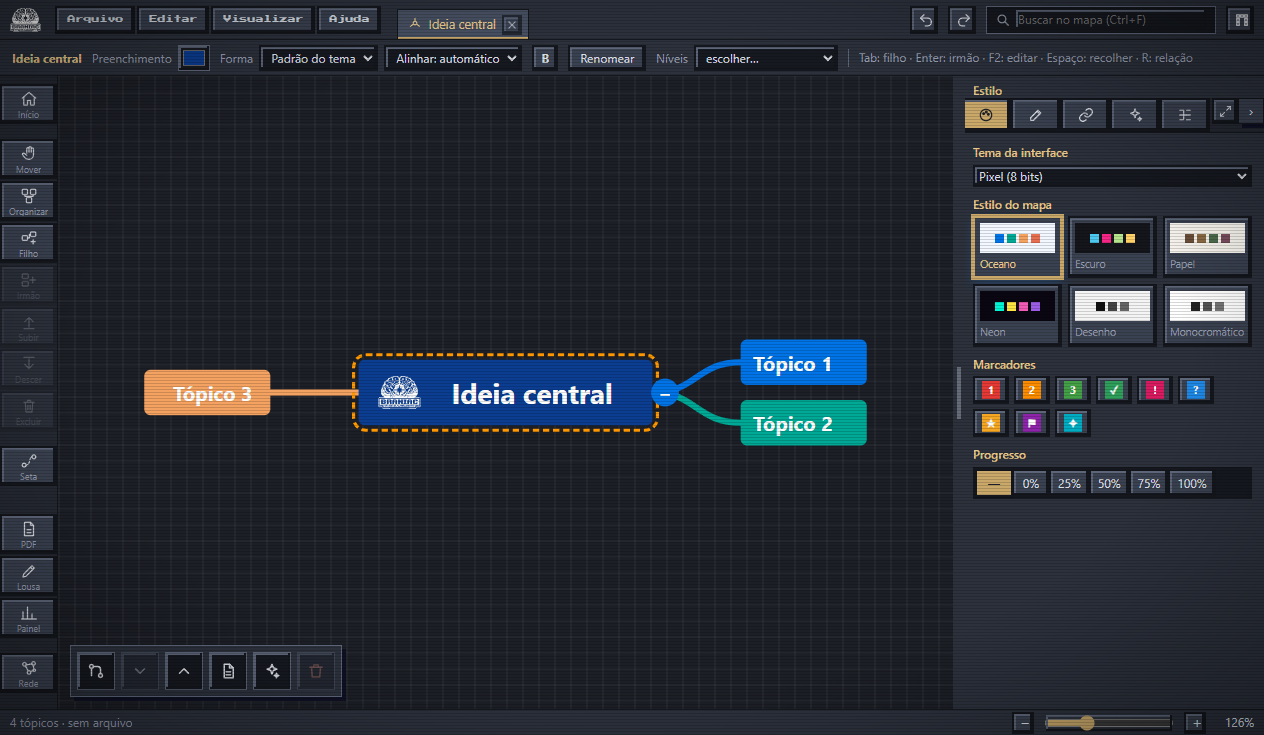
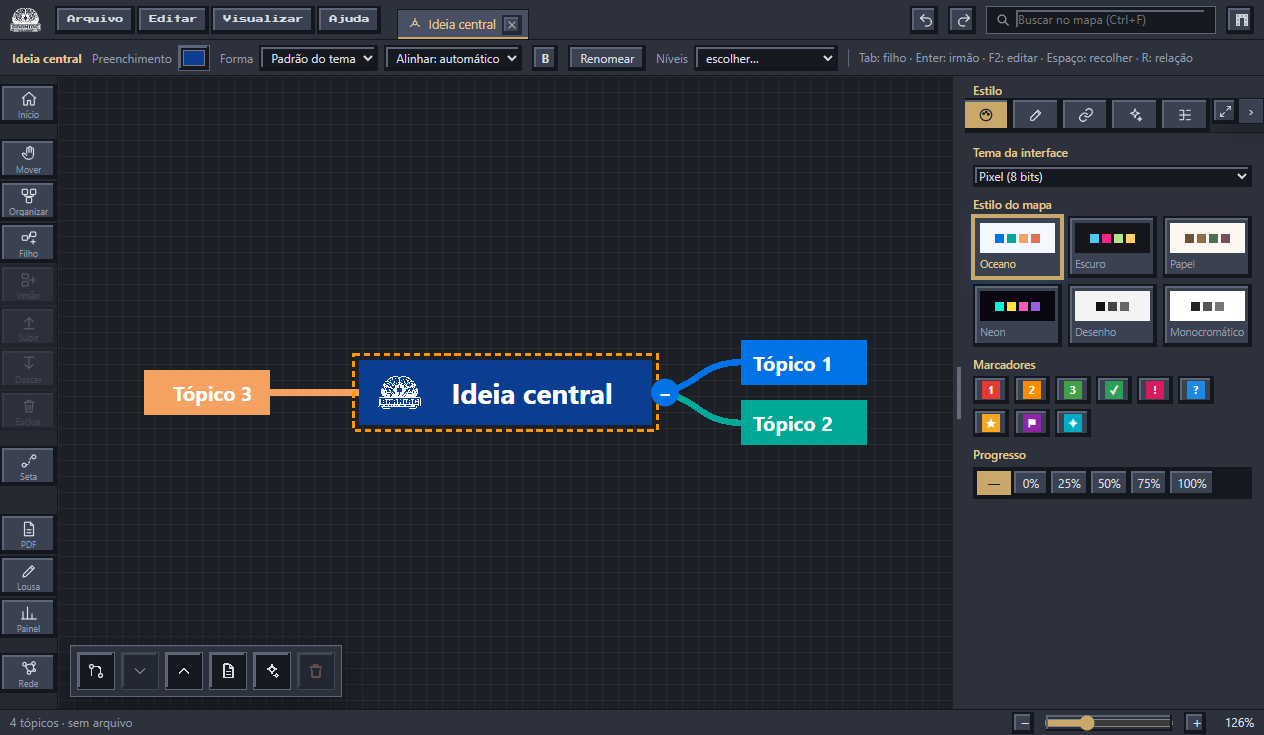
Release 0.7.5: tema Pixel com mapa em canvas escuro
- Canvas do mapa escuro no tema Pixel, com grade discreta.
- Formas dos tópicos com cantos retos e bordas serrilhadas (shape-rendering).
- Contraste ajustado no canvas escuro (core/svg.js, opção canvas):
  texto sem caixa >= 4,5:1; ramos e contornos >= 3:1.
  Temas de mapa e exportação não mudam quando a opção não é usada.
- Testes: test/canvas-contrast.test.js (18 casos, todos os temas).
- Evidências: docs/evidencias/tema-pixel/2-pixel.png e 5-mapa-papel-canvas-escuro.png.
- Versão 0.7.5 (Android: versionName 0.7.5, versionCode 27).

diff --git a/tablet/www/tablet-bundle.js b/tablet/www/tablet-bundle.js
@@ -4132,7 +4132,7 @@ Pergunta do aluno: ${q || "Explique o t\xF3pico de forma resumida, do jeito que 
     "package.json"(exports, module) {
       module.exports = {
         name: "braniac-tablet",
-        version: "0.7.4",
+        version: "0.7.5",
         private: true,
         description: "Casca Android (Capacitor) do BRANIAC: empacota a mesma interface do desktop para o tablet.",
         scripts: {
@@ -10215,6 +10215,27 @@ ${rewriteLinks(node.notes || "", () => " ")}`.replace(/\[\[[^\]]*\]\]/g, " "));
       var { logoSize, logoVariant, logoMarkup } = require_logo();
       var { escapeHtml: esc } = require_text();
       var REL_COLOR = "#e5484d";
+      function luminance(hex) {
+        const c = [1, 3, 5].map((i) => parseInt(hex.slice(i, i + 2), 16) / 255).map((v) => v <= 0.03928 ? v / 12.92 : ((v + 0.055) / 1.055) ** 2.4);
+        return 0.2126 * c[0] + 0.7152 * c[1] + 0.0722 * c[2];
+      }
+      function contrast(a, b) {
+        const x = luminance(a), y = luminance(b);
+        return (Math.max(x, y) + 0.05) / (Math.min(x, y) + 0.05);
+      }
+      function lighten(hex, t) {
+        const ch = (i) => parseInt(hex.slice(i, i + 2), 16);
+        const mix = (v) => Math.round(v + (255 - v) * t).toString(16).padStart(2, "0");
+        return `#${mix(ch(1))}${mix(ch(3))}${mix(ch(5))}`;
+      }
+      function onDarkCanvas(color, canvas, min) {
+        if (!/^#[0-9a-fA-F]{6}$/.test(color || "") || contrast(color, canvas) >= min) return color;
+        for (let t = 0.05; t <= 1; t += 0.05) {
+          const c = lighten(color, t);
+          if (contrast(c, canvas) >= min) return c;
+        }
+        return "#ffffff";
+      }
       function edgePath(e, curve) {
         const { a, b, dir } = edgePoints(e);
         if (curve === "elbow") {
@@ -10230,33 +10251,37 @@ ${rewriteLinks(node.notes || "", () => " ")}`.replace(/\[\[[^\]]*\]\]/g, " "));
         return b.side < 0 ? "right" : "left";
       }
       var SKETCH_DEFS = '<defs><filter id="mc-sketch" x="-5%" y="-5%" width="110%" height="110%"><feTurbulence type="fractalNoise" baseFrequency="0.035" numOctaves="2" seed="7" result="n"/><feDisplacementMap in="SourceGraphic" in2="n" scale="3.5" xChannelSelector="R" yChannelSelector="G"/></filter></defs>';
-      function renderGroup(L, { selectedId, selectedIds, selectedRel, interactive, hits, logo } = {}) {
+      function renderGroup(L, { selectedId, selectedIds, selectedRel, interactive, hits, logo, canvas } = {}) {
         const { theme } = L;
         const out = [];
         if (theme.sketch) out.push(SKETCH_DEFS);
         for (const e of L.edges) {
           const w = e.to.style.edgeWidth || theme.line.width[Math.min(e.to.level - 1, theme.line.width.length - 1)];
-          out.push(`<path d="${edgePath(e, theme.line.curve)}" fill="none" stroke="${e.to.style.edge || e.to.branch}" stroke-width="${w}" stroke-linecap="round"/>`);
+          out.push(`<path d="${edgePath(e, theme.line.curve)}" fill="none" stroke="${canvas ? onDarkCanvas(e.to.style.edge || e.to.branch, canvas, 3) : e.to.style.edge || e.to.branch}" stroke-width="${w}" stroke-linecap="round"/>`);
         }
         for (const { rel, geo } of L.relations) {
-          const col = /^#[0-9a-fA-F]{6}$/.test(rel.color || "") ? rel.color : REL_COLOR, sel = selectedRel === rel.id;
+          const col0 = /^#[0-9a-fA-F]{6}$/.test(rel.color || "") ? rel.color : REL_COLOR;
+          const col = canvas ? onDarkCanvas(col0, canvas, 3) : col0, sel = selectedRel === rel.id;
           const d = `M${geo.a.x},${geo.a.y} Q${geo.c.x},${geo.c.y} ${geo.b.x},${geo.b.y}`;
           const ar = geo.arrow.map((p) => `${p.x},${p.y}`).join(" ");
-          out.push(`<g${interactive ? ` data-rel="${esc(rel.id)}" class="rel"` : ""}>` + (interactive ? `<path d="${d}" fill="none" stroke="transparent" stroke-width="14"/>` : "") + `<path d="${d}" fill="none" stroke="${col}" stroke-width="${sel ? 3.5 : 2}" stroke-dasharray="7 5" stroke-linecap="round"/><polygon points="${ar}" fill="${col}"/>` + (rel.label ? `<text x="${geo.label.x}" y="${geo.label.y - 6}" text-anchor="middle" font-size="12" font-style="italic" fill="${col}" stroke="${theme.background}" stroke-width="4" paint-order="stroke">${esc(rel.label)}</text>` : "") + "</g>");
+          out.push(`<g${interactive ? ` data-rel="${esc(rel.id)}" class="rel"` : ""}>` + (interactive ? `<path d="${d}" fill="none" stroke="transparent" stroke-width="14"/>` : "") + `<path d="${d}" fill="none" stroke="${col}" stroke-width="${sel ? 3.5 : 2}" stroke-dasharray="7 5" stroke-linecap="round"/><polygon points="${ar}" fill="${col}"/>` + (rel.label ? `<text x="${geo.label.x}" y="${geo.label.y - 6}" text-anchor="middle" font-size="12" font-style="italic" fill="${col}" stroke="${canvas || theme.background}" stroke-width="4" paint-order="stroke">${esc(rel.label)}</text>` : "") + "</g>");
         }
         for (const b of L.boxes.values()) {
           const s = b.style, n = b.node;
+          const onCanvasText = canvas && (s.shape === "underline" || s.shape === "none" && (!s.fill || s.fill === "none"));
+          const ink = onCanvasText ? onDarkCanvas(s.color, canvas, 4.5) : s.color;
+          const rim = canvas && !s.stroke && /^#[0-9a-fA-F]{6}$/.test(s.fill || "") && contrast(s.fill, canvas) < 3 ? ' stroke="#9aa3b5" stroke-width="1.5"' : "";
           const tx = b.x + b.markerW + (b.w - b.markerW) / 2;
           let shape = "";
           if (s.shape === "underline") {
-            shape = `<line x1="${b.x}" y1="${b.y + b.h}" x2="${b.x + b.w}" y2="${b.y + b.h}" stroke="${s.stroke || b.branch}" stroke-width="${s.strokeWidth || 2}"/>`;
+            shape = `<line x1="${b.x}" y1="${b.y + b.h}" x2="${b.x + b.w}" y2="${b.y + b.h}" stroke="${canvas ? onDarkCanvas(s.stroke || b.branch, canvas, 3) : s.stroke || b.branch}" stroke-width="${s.strokeWidth || 2}"/>`;
           } else if (s.shape === "none") {
             shape = s.fill && s.fill !== "none" ? `<rect x="${b.x}" y="${b.y}" width="${b.w}" height="${b.h}" fill="${s.fill}"/>` : "";
           } else if (s.shape === "ellipse") {
-            shape = `<ellipse cx="${b.x + b.w / 2}" cy="${b.y + b.h / 2}" rx="${b.w / 2}" ry="${b.h / 2}" fill="${s.fill}"${s.stroke ? ` stroke="${s.stroke}" stroke-width="${s.strokeWidth}"` : ""}/>`;
+            shape = `<ellipse cx="${b.x + b.w / 2}" cy="${b.y + b.h / 2}" rx="${b.w / 2}" ry="${b.h / 2}" fill="${s.fill}"${s.stroke ? ` stroke="${s.stroke}" stroke-width="${s.strokeWidth}"` : rim}/>`;
           } else {
             const r = s.shape === "pill" ? Math.min(b.h / 2, 8) : s.shape === "round" ? 5 : 2;
-            shape = `<rect x="${b.x}" y="${b.y}" width="${b.w}" height="${b.h}" rx="${r}" fill="${s.fill}"${s.stroke ? ` stroke="${s.stroke}" stroke-width="${s.strokeWidth}"` : ""}/>`;
+            shape = `<rect x="${b.x}" y="${b.y}" width="${b.w}" height="${b.h}" rx="${r}" fill="${s.fill}"${s.stroke ? ` stroke="${s.stroke}" stroke-width="${s.strokeWidth}"` : rim}/>`;
           }
           if (logo && b.level === 0) {
             const ls = logoSize(s.size);
@@ -10267,7 +10292,7 @@ ${rewriteLinks(node.notes || "", () => " ")}`.replace(/\[\[[^\]]*\]\]/g, " "));
           const align = textAlign(b, s);
           const txA = align === "left" ? b.x + s.padX * 0.7 + b.markerW : align === "right" ? b.x + b.w - s.padX : tx;
           const anchor = align === "left" ? "start" : align === "right" ? "end" : "middle";
-          const text = b.lines.map((l, i) => `<text x="${txA}" y="${startY + i * b.lineHeight}" text-anchor="${anchor}" dominant-baseline="central" fill="${s.color}" font-size="${s.size}"${s.font ? ` font-family="${esc(`'${s.font}', ${theme.font}`)}"` : ""} font-weight="${s.bold ? 700 : 400}"${s.italic ? ' font-style="italic"' : ""}>${esc(l)}</text>`).join("");
+          const text = b.lines.map((l, i) => `<text x="${txA}" y="${startY + i * b.lineHeight}" text-anchor="${anchor}" dominant-baseline="central" fill="${ink}" font-size="${s.size}"${s.font ? ` font-family="${esc(`'${s.font}', ${theme.font}`)}"` : ""} font-weight="${s.bold ? 700 : 400}"${s.italic ? ' font-style="italic"' : ""}>${esc(l)}</text>`).join("");
           const markers = b.markers.map((m, i) => {
             const d = b.markerD, cx = b.x + s.padX * 0.7 + (b.logoW || 0) + d / 2 + i * (d + 4), cy = b.y + b.h / 2;
             return `<circle cx="${cx}" cy="${cy}" r="${d / 2}" fill="${MARKERS[m].color}"/><text x="${cx}" y="${cy}" text-anchor="middle" dominant-baseline="central" fill="#fff" font-size="${d * 0.62}" font-weight="700">${MARKERS[m].glyph}</text>`;

diff --git a/core/svg.js b/core/svg.js
@@ -6,6 +6,32 @@ const { logoSize, logoVariant, logoMarkup } = require('./logo');
 const { escapeHtml: esc } = require('./text');
 const REL_COLOR = '#e5484d';
 
+/* Canvas escuro (tema Pixel): as cores dos temas foram pensadas para fundo claro. Aqui cada cor que ficaria
+   invisível sobre o canvas é clareada até atingir o contraste mínimo (WCAG: 4,5:1 para texto, 3:1 para gráficos). */
+function luminance(hex) {
+  const c = [1, 3, 5].map((i) => parseInt(hex.slice(i, i + 2), 16) / 255)
+    .map((v) => (v <= 0.03928 ? v / 12.92 : ((v + 0.055) / 1.055) ** 2.4));
+  return 0.2126 * c[0] + 0.7152 * c[1] + 0.0722 * c[2];
+}
+function contrast(a, b) {
+  const x = luminance(a), y = luminance(b);
+  return (Math.max(x, y) + 0.05) / (Math.min(x, y) + 0.05);
+}
+function lighten(hex, t) {
+  const ch = (i) => parseInt(hex.slice(i, i + 2), 16);
+  const mix = (v) => Math.round(v + (255 - v) * t).toString(16).padStart(2, '0');
+  return `#${mix(ch(1))}${mix(ch(3))}${mix(ch(5))}`;
+}
+/** Devolve a cor (ou um tom mais claro dela) com contraste mínimo sobre o fundo escuro. Cores não hexadecimais ficam como estão. */
+function onDarkCanvas(color, canvas, min) {
+  if (!/^#[0-9a-fA-F]{6}$/.test(color || '') || contrast(color, canvas) >= min) return color;
+  for (let t = 0.05; t <= 1; t += 0.05) {
+    const c = lighten(color, t);
+    if (contrast(c, canvas) >= min) return c;
+  }
+  return '#ffffff';
+}
+
 function edgePath(e, curve) {
   const { a, b, dir } = edgePoints(e);
   if (curve === 'elbow') {
@@ -28,41 +54,46 @@ function textAlign(b, s) {
   return b.side < 0 ? 'right' : 'left';
 }
 const SKETCH_DEFS = '<defs><filter id="mc-sketch" x="-5%" y="-5%" width="110%" height="110%"><feTurbulence type="fractalNoise" baseFrequency="0.035" numOctaves="2" seed="7" result="n"/><feDisplacementMap in="SourceGraphic" in2="n" scale="3.5" xChannelSelector="R" yChannelSelector="G"/></filter></defs>';
-function renderGroup(L, { selectedId, selectedIds, selectedRel, interactive, hits, logo } = {}) {
+function renderGroup(L, { selectedId, selectedIds, selectedRel, interactive, hits, logo, canvas } = {}) {
   const { theme } = L;
   const out = [];
   if (theme.sketch) out.push(SKETCH_DEFS);   // tema à mão: o desenho inteiro recebe um tremor leve de traço (sem sombras)
 
   for (const e of L.edges) {
     const w = e.to.style.edgeWidth || theme.line.width[Math.min(e.to.level - 1, theme.line.width.length - 1)];
-    out.push(`<path d="${edgePath(e, theme.line.curve)}" fill="none" stroke="${e.to.style.edge || e.to.branch}" stroke-width="${w}" stroke-linecap="round"/>`);
+    out.push(`<path d="${edgePath(e, theme.line.curve)}" fill="none" stroke="${canvas ? onDarkCanvas(e.to.style.edge || e.to.branch, canvas, 3) : (e.to.style.edge || e.to.branch)}" stroke-width="${w}" stroke-linecap="round"/>`);
   }
 
   for (const { rel, geo } of L.relations) {
-    const col = /^#[0-9a-fA-F]{6}$/.test(rel.color || '') ? rel.color : REL_COLOR, sel = selectedRel === rel.id;
+    const col0 = /^#[0-9a-fA-F]{6}$/.test(rel.color || '') ? rel.color : REL_COLOR;
+    const col = canvas ? onDarkCanvas(col0, canvas, 3) : col0, sel = selectedRel === rel.id;
     const d = `M${geo.a.x},${geo.a.y} Q${geo.c.x},${geo.c.y} ${geo.b.x},${geo.b.y}`;
     const ar = geo.arrow.map((p) => `${p.x},${p.y}`).join(' ');
     out.push(`<g${interactive ? ` data-rel="${esc(rel.id)}" class="rel"` : ''}>`
       + (interactive ? `<path d="${d}" fill="none" stroke="transparent" stroke-width="14"/>` : '')
       + `<path d="${d}" fill="none" stroke="${col}" stroke-width="${sel ? 3.5 : 2}" stroke-dasharray="7 5" stroke-linecap="round"/>`
       + `<polygon points="${ar}" fill="${col}"/>`
-      + (rel.label ? `<text x="${geo.label.x}" y="${geo.label.y - 6}" text-anchor="middle" font-size="12" font-style="italic" fill="${col}" stroke="${theme.background}" stroke-width="4" paint-order="stroke">${esc(rel.label)}</text>` : '')
+      + (rel.label ? `<text x="${geo.label.x}" y="${geo.label.y - 6}" text-anchor="middle" font-size="12" font-style="italic" fill="${col}" stroke="${canvas || theme.background}" stroke-width="4" paint-order="stroke">${esc(rel.label)}</text>` : '')
       + '</g>');
   }
 
   for (const b of L.boxes.values()) {
     const s = b.style, n = b.node;
+    // no canvas escuro: texto sem caixa precisa de contraste com o canvas; forma sem contorno que se confunde com ele ganha um contorno claro
+    const onCanvasText = canvas && (s.shape === 'underline' || (s.shape === 'none' && (!s.fill || s.fill === 'none')));
+    const ink = onCanvasText ? onDarkCanvas(s.color, canvas, 4.5) : s.color;
+    const rim = canvas && !s.stroke && /^#[0-9a-fA-F]{6}$/.test(s.fill || '') && contrast(s.fill, canvas) < 3 ? ' stroke="#9aa3b5" stroke-width="1.5"' : '';
     const tx = b.x + b.markerW + (b.w - b.markerW) / 2;
     let shape = '';
     if (s.shape === 'underline') {
-      shape = `<line x1="${b.x}" y1="${b.y + b.h}" x2="${b.x + b.w}" y2="${b.y + b.h}" stroke="${s.stroke || b.branch}" stroke-width="${s.strokeWidth || 2}"/>`;
+      shape = `<line x1="${b.x}" y1="${b.y + b.h}" x2="${b.x + b.w}" y2="${b.y + b.h}" stroke="${canvas ? onDarkCanvas(s.stroke || b.branch, canvas, 3) : (s.stroke || b.branch)}" stroke-width="${s.strokeWidth || 2}"/>`;
     } else if (s.shape === 'none') {
       shape = s.fill && s.fill !== 'none' ? `<rect x="${b.x}" y="${b.y}" width="${b.w}" height="${b.h}" fill="${s.fill}"/>` : '';   // "sem forma" do Mindomo: só o texto (e um fundo, se houver)
     } else if (s.shape === 'ellipse') {
-      shape = `<ellipse cx="${b.x + b.w / 2}" cy="${b.y + b.h / 2}" rx="${b.w / 2}" ry="${b.h / 2}" fill="${s.fill}"${s.stroke ? ` stroke="${s.stroke}" stroke-width="${s.strokeWidth}"` : ''}/>`;
+      shape = `<ellipse cx="${b.x + b.w / 2}" cy="${b.y + b.h / 2}" rx="${b.w / 2}" ry="${b.h / 2}" fill="${s.fill}"${s.stroke ? ` stroke="${s.stroke}" stroke-width="${s.strokeWidth}"` : rim}/>`;
     } else {
       const r = s.shape === 'pill' ? Math.min(b.h / 2, 8) : s.shape === 'round' ? 5 : 2;   // pílula: cantos menos arredondados que a semicircunferência   // arredondado: cantos suaves, sem virar pílula
-      shape = `<rect x="${b.x}" y="${b.y}" width="${b.w}" height="${b.h}" rx="${r}" fill="${s.fill}"${s.stroke ? ` stroke="${s.stroke}" stroke-width="${s.strokeWidth}"` : ''}/>`;
+      shape = `<rect x="${b.x}" y="${b.y}" width="${b.w}" height="${b.h}" rx="${r}" fill="${s.fill}"${s.stroke ? ` stroke="${s.stroke}" stroke-width="${s.strokeWidth}"` : rim}/>`;
     }
     // logomarca ao lado do tópico principal (só na tela: o arquivo do mapa não guarda o ícone)
     if (logo && b.level === 0) {
@@ -75,7 +106,7 @@ function renderGroup(L, { selectedId, selectedIds, selectedRel, interactive, hit
     const txA = align === 'left' ? b.x + s.padX * 0.7 + b.markerW : align === 'right' ? b.x + b.w - s.padX : tx;
     const anchor = align === 'left' ? 'start' : align === 'right' ? 'end' : 'middle';
     const text = b.lines.map((l, i) =>
-      `<text x="${txA}" y="${startY + i * b.lineHeight}" text-anchor="${anchor}" dominant-baseline="central" fill="${s.color}" font-size="${s.size}"${s.font ? ` font-family="${esc(`'${s.font}', ${theme.font}`)}"` : ''} font-weight="${s.bold ? 700 : 400}"${s.italic ? ' font-style="italic"' : ''}>${esc(l)}</text>`).join('');
+      `<text x="${txA}" y="${startY + i * b.lineHeight}" text-anchor="${anchor}" dominant-baseline="central" fill="${ink}" font-size="${s.size}"${s.font ? ` font-family="${esc(`'${s.font}', ${theme.font}`)}"` : ''} font-weight="${s.bold ? 700 : 400}"${s.italic ? ' font-style="italic"' : ''}>${esc(l)}</text>`).join('');
 
     const markers = b.markers.map((m, i) => {
       const d = b.markerD, cx = b.x + s.padX * 0.7 + (b.logoW || 0) + d / 2 + i * (d + 4), cy = b.y + b.h / 2;

diff --git a/test/canvas-contrast.test.js b/test/canvas-contrast.test.js
@@ -1,0 +1,74 @@
+'use strict';
+// Canvas escuro (tema Pixel): com a opção canvas, o texto sem caixa e os ramos de todo tema de mapa precisam de contraste
+// sobre o fundo escuro. Sem a opção, a saída fica como antes (exportação e demais temas não mudam).
+const test = require('node:test');
+const assert = require('node:assert');
+const { THEMES } = require('../core/themes');
+const { MindMap, createNode } = require('../core/model');
+const { layoutMap } = require('../core/layout');
+const { renderGroup } = require('../core/svg');
+
+const CANVAS = '#1c1f26';
+
+function lum(hex) {
+  const c = [1, 3, 5].map((i) => parseInt(hex.slice(i, i + 2), 16) / 255)
+    .map((v) => (v <= 0.03928 ? v / 12.92 : ((v + 0.055) / 1.055) ** 2.4));
+  return 0.2126 * c[0] + 0.7152 * c[1] + 0.0722 * c[2];
+}
+function contrast(a, b) {
+  const x = lum(a), y = lum(b);
+  return (Math.max(x, y) + 0.05) / (Math.min(x, y) + 0.05);
+}
+
+// mapa com 3 níveis: o nível 3 (texto sem caixa no Oceano, Papel, Desenho e Monocromático) é o que mais precisa de ajuste
+function sampleMap(theme) {
+  const m = new MindMap(createNode('Ideia central'));
+  const a = m.addChild(m.root.id, 'Primeiro');
+  const b = m.addChild(a.id, 'Filho');
+  m.addChild(b.id, 'Neto');
+  m.addChild(m.root.id, 'Segundo');
+  m.meta.theme = theme;
+  return m;
+}
+
+// cor do texto de um rótulo no SVG
+function textFill(svg, label) {
+  const re = new RegExp(`<text[^>]*fill="(#[0-9a-fA-F]{6})"[^>]*>${label}</text>`);
+  const m = svg.match(re);
+  assert.ok(m, `rótulo "${label}" não encontrado no SVG`);
+  return m[1];
+}
+
+// cores dos ramos (caminhos de ligação) no SVG
+function edgeStrokes(svg) {
+  return [...svg.matchAll(/<path d="[^"]*" fill="none" stroke="(#[0-9a-fA-F]{6})" stroke-width="[\d.]+" stroke-linecap="round"\/>/g)].map((m) => m[1]);
+}
+
+for (const theme of Object.keys(THEMES)) {
+  test(`${theme}: com canvas escuro, texto do nível 3 tem contraste ≥ 4,5:1`, () => {
+    const L = layoutMap(sampleMap(theme));
+    const svg = renderGroup(L, { interactive: false, canvas: CANVAS });
+    const fill = textFill(svg, 'Neto');
+    const style = THEMES[theme].levels[2];
+    if (style.fill === 'none' || style.fill === undefined) {
+      assert.ok(contrast(fill, CANVAS) >= 4.5, `${theme}: texto ${fill} tem ${contrast(fill, CANVAS).toFixed(2)}:1 sobre o canvas`);
+    }
+  });
+
+  test(`${theme}: com canvas escuro, todos os ramos têm contraste ≥ 3:1`, () => {
+    const L = layoutMap(sampleMap(theme));
+    const svg = renderGroup(L, { interactive: false, canvas: CANVAS });
+    const strokes = edgeStrokes(svg);
+    assert.ok(strokes.length >= 3, 'deveria haver ramos no SVG');
+    for (const c of strokes) assert.ok(contrast(c, CANVAS) >= 3, `${theme}: ramo ${c} tem ${contrast(c, CANVAS).toFixed(2)}:1`);
+  });
+
+  test(`${theme}: sem a opção canvas, as cores do tema saem inalteradas`, () => {
+    const L = layoutMap(sampleMap(theme));
+    const svg = renderGroup(L, { interactive: false });
+    const ramos = THEMES[theme].branches.map((x) => x.toLowerCase());
+    for (const c of edgeStrokes(svg)) assert.ok(ramos.includes(c.toLowerCase()), 'ramo fora da paleta do tema: ' + c);
+    const direct = renderGroup(L, { interactive: false, canvas: null });
+    assert.strictEqual(direct, svg, 'canvas null deve ser igual a não passar a opção');
+  });
+}

diff --git a/tablet/scripts/patch-android.js b/tablet/scripts/patch-android.js
@@ -4,7 +4,7 @@
  *  1. o compartilhamento enxerga a pasta interna do app (files/braniac), onde o BRANIAC grava mapas e exportações;
  *  2. assinatura de release com a chave de tablet/keystore (fora do git). A senha é lida do arquivo na hora do build
  *     e nunca é copiada para o projeto; sem o arquivo, o release sai sem assinatura (e o build avisa);
- *  3. versão 0.7.4 (código 26), igual ao package.json.
+ *  3. versão 0.7.5 (código 27), igual ao package.json.
  */
 const fs = require('fs');
 const path = require('path');
@@ -60,9 +60,9 @@ if (fs.existsSync(iconSrc) && fs.existsSync(stylesFile)) {
   }
 }
 
-// 3) versão do APK: nome 0.7.4 (código 26); sempre reaplicada, pois o `cap sync` regenera o build.gradle
+// 3) versão do APK: nome 0.7.5 (código 27); sempre reaplicada, pois o `cap sync` regenera o build.gradle
 const gradleVersion = fs.readFileSync(gradle, 'utf8');
-fs.writeFileSync(gradle, gradleVersion.replace(/versionCode \d+/, 'versionCode 26').replace(/versionName "[^"]*"/, 'versionName "0.7.4"'));
+fs.writeFileSync(gradle, gradleVersion.replace(/versionCode \d+/, 'versionCode 27').replace(/versionName "[^"]*"/, 'versionName "0.7.5"'));
 
 // 2) e 3) assinatura e versão
 let g = fs.readFileSync(gradle, 'utf8');
@@ -85,7 +85,7 @@ if (!g.includes('// BRANIAC: assinatura')) {
   ].join('\n');
   g = g.replace('    buildTypes {', signing + '    buildTypes {');
   g = g.replace('    buildTypes {\n        release {', "    buildTypes {\n        release {\n            if (file('../../keystore/senha.txt').exists()) signingConfig signingConfigs.release");
-  g = g.replace(/versionCode \d+/, 'versionCode 26').replace(/versionName "[^"]*"/, 'versionName "0.7.4"');
+  g = g.replace(/versionCode \d+/, 'versionCode 27').replace(/versionName "[^"]*"/, 'versionName "0.7.5"');
   fs.writeFileSync(gradle, g);
 }
-console.log('Android: compartilhamento liberado, assinatura de release e versão 0.7.4 (código 26).');
+console.log('Android: compartilhamento liberado, assinatura de release e versão 0.7.5 (código 27).');

diff --git a/renderer/pixel-theme.css b/renderer/pixel-theme.css
@@ -44,12 +44,15 @@ body.ui-pixel .modal-box, body.ui-pixel .ctx-menu {
   box-shadow: none !important;
 }
 
-/* canvas do mapa: claro, com grade discreta, para o texto dos tópicos ter contraste */
+/* canvas do mapa: escuro, com grade discreta. O renderizador ajusta as cores dos tópicos para ter contraste sobre ele (core/svg.js, opção canvas) */
 body.ui-pixel #stage {
-  background-color: #eeeff2 !important;
-  background-image: linear-gradient(rgba(20, 23, 29, .06) 1px, transparent 1px), linear-gradient(90deg, rgba(20, 23, 29, .06) 1px, transparent 1px) !important;
+  background-color: #1c1f26 !important;
+  background-image: linear-gradient(rgba(255, 255, 255, .05) 1px, transparent 1px), linear-gradient(90deg, rgba(255, 255, 255, .05) 1px, transparent 1px) !important;
   background-size: 16px 16px !important;
 }
+/* mapa pixelizado: cantos retos e bordas sem suavização nas formas dos tópicos e das ligações */
+body.ui-pixel #stage svg rect { rx: 0; ry: 0; shape-rendering: crispEdges; }
+body.ui-pixel #stage svg line, body.ui-pixel #stage svg path { shape-rendering: crispEdges; }
 
 /* botões, campos e chips em relevo de degrau (luz em cima e à esquerda, sombra embaixo e à direita) */
 body.ui-pixel .btn, body.ui-pixel button, body.ui-pixel select, body.ui-pixel input, body.ui-pixel textarea, body.ui-pixel .chip {

diff --git a/tablet/www/pixel-theme.css b/tablet/www/pixel-theme.css
@@ -44,12 +44,15 @@ body.ui-pixel .modal-box, body.ui-pixel .ctx-menu {
   box-shadow: none !important;
 }
 
-/* canvas do mapa: claro, com grade discreta, para o texto dos tópicos ter contraste */
+/* canvas do mapa: escuro, com grade discreta. O renderizador ajusta as cores dos tópicos para ter contraste sobre ele (core/svg.js, opção canvas) */
 body.ui-pixel #stage {
-  background-color: #eeeff2 !important;
-  background-image: linear-gradient(rgba(20, 23, 29, .06) 1px, transparent 1px), linear-gradient(90deg, rgba(20, 23, 29, .06) 1px, transparent 1px) !important;
+  background-color: #1c1f26 !important;
+  background-image: linear-gradient(rgba(255, 255, 255, .05) 1px, transparent 1px), linear-gradient(90deg, rgba(255, 255, 255, .05) 1px, transparent 1px) !important;
   background-size: 16px 16px !important;
 }
+/* mapa pixelizado: cantos retos e bordas sem suavização nas formas dos tópicos e das ligações */
+body.ui-pixel #stage svg rect { rx: 0; ry: 0; shape-rendering: crispEdges; }
+body.ui-pixel #stage svg line, body.ui-pixel #stage svg path { shape-rendering: crispEdges; }
 
 /* botões, campos e chips em relevo de degrau (luz em cima e à esquerda, sombra embaixo e à direita) */
 body.ui-pixel .btn, body.ui-pixel button, body.ui-pixel select, body.ui-pixel input, body.ui-pixel textarea, body.ui-pixel .chip {

diff --git a/renderer/renderer.js b/renderer/renderer.js
@@ -71,7 +71,9 @@ function render() {
   if (!selectedId) selIds = new Set(); else if (!selIds.has(selectedId)) selIds = new Set([selectedId]);
   for (const id of [...selIds]) if (!map.find(id)) selIds.delete(id);
   svg.setAttribute('font-family', L.theme.font);
-  view.innerHTML = renderGroup(L, { selectedId, selectedIds: selIds, selectedRel, interactive: true, hits, logo: true });
+  // tema Pixel tem canvas escuro: as cores do mapa são ajustadas para ter contraste sobre ele (ver core/svg.js)
+  const canvas = document.body.classList.contains('ui-pixel') ? '#1c1f26' : null;   // mesmo fundo do CSS do tema Pixel
+  view.innerHTML = renderGroup(L, { selectedId, selectedIds: selIds, selectedRel, interactive: true, hits, logo: true, canvas });
   view.setAttribute('transform', `translate(${pan.x} ${pan.y}) scale(${pan.k})`);
   syncCustomTheme();
   $('#theme').value = map.meta.theme;

diff --git a/tablet/www/renderer.js b/tablet/www/renderer.js
@@ -71,7 +71,9 @@ function render() {
   if (!selectedId) selIds = new Set(); else if (!selIds.has(selectedId)) selIds = new Set([selectedId]);
   for (const id of [...selIds]) if (!map.find(id)) selIds.delete(id);
   svg.setAttribute('font-family', L.theme.font);
-  view.innerHTML = renderGroup(L, { selectedId, selectedIds: selIds, selectedRel, interactive: true, hits, logo: true });
+  // tema Pixel tem canvas escuro: as cores do mapa são ajustadas para ter contraste sobre ele (ver core/svg.js)
+  const canvas = document.body.classList.contains('ui-pixel') ? '#1c1f26' : null;   // mesmo fundo do CSS do tema Pixel
+  view.innerHTML = renderGroup(L, { selectedId, selectedIds: selIds, selectedRel, interactive: true, hits, logo: true, canvas });
   view.setAttribute('transform', `translate(${pan.x} ${pan.y}) scale(${pan.k})`);
   syncCustomTheme();
   $('#theme').value = map.meta.theme;

diff --git a/tablet/www/index.html b/tablet/www/index.html
@@ -24,7 +24,7 @@
       <div class="splash-bar"></div>
     </div>
     <div id="splashStatus" class="splash-status">Iniciando o BRANIAC…</div>
-    <div class="splash-foot" id="splashVersion">BRANIAC · v0.7.4</div>
+    <div class="splash-foot" id="splashVersion">BRANIAC · v0.7.5</div>
   </div>
 </div>
 <script src="tablet-bundle.js"></script>

diff --git a/CHANGELOG.md b/CHANGELOG.md
@@ -4,6 +4,11 @@ Formato livre, mais recente primeiro. Detalhes de testes: `evidencias/RESULTADOS
 
 > **Nota de consistência (novembro/2026).** O código deste repositório (`app/`) não contém os recursos de estudo descritos nas versões 0.1.x a 0.7.1: painel de estudos, revisão do dia, caderno de erros, simulados, metas, modelos de concurso, agenda `.ics`, sincronização e manual de uso. Só restaram estilos CSS desses recursos. As entradas marcadas com ⚠ descrevem esses recursos e foram mantidas como histórico. O que existe e foi conferido no código: mapas, rede de conhecimento, PDF, abas, Obsidian (fase 1), revisão espaçada (0.7.2), logomarca e abertura. Os trechos de mídia (vídeo e navegador) das versões 0.4.3 e 0.6.x não foram conferidos um a um.
 
+## 0.7.5 — 07/11/2026
+- **Tema Pixel: mapa com canvas escuro.** O fundo do mapa passa a ser escuro, com grade discreta, e as formas dos tópicos ganham cantos retos e bordas serrilhadas.
+- **Contraste no canvas escuro:** texto sem caixa, ramos e contornos são ajustados para ficar legíveis sobre o fundo escuro (texto ≥ 4,5:1, ramos ≥ 3:1). Os temas de mapa e a exportação não mudam.
+- **Release:** Windows (`BRANIAC Setup 0.7.5.exe`) e Android (`BRANIAC-0.7.5.apk`, código 27).
+
 ## 0.7.4 — 07/11/2026
 - **Tema Pixel: áreas de leitura claras.** O leitor de PDF e a lousa de resolução ficam com fundo claro e sem efeito retrô, para a leitura não cansar.
 - **Tema Pixel: sem linhas de varredura.** O efeito de tubo de monitor foi removido; a interface segue o padrão de cores suaves.

diff --git a/README.md b/README.md
@@ -6,7 +6,7 @@
 - Tablet: **Android** (APK).
 - Compatível com arquivos **Mindomo `.mom`**: abre, salva e preserva o que não entende.
 
-Versão atual: **0.7.4**. Histórico completo em [CHANGELOG.md](CHANGELOG.md).
+Versão atual: **0.7.5**. Histórico completo em [CHANGELOG.md](CHANGELOG.md).
 
 ## Telas
 
@@ -47,9 +47,9 @@ Versão atual: **0.7.4**. Histórico completo em [CHANGELOG.md](CHANGELOG.md).
 
 ## Instalar
 
-**Windows:** baixe `BRANIAC Setup 0.7.4.exe` e execute. O instalador não é assinado, então o Windows pode mostrar um aviso de editor desconhecido: clique em "Mais informações" e depois em "Executar assim mesmo".
+**Windows:** baixe `BRANIAC Setup 0.7.5.exe` e execute. O instalador não é assinado, então o Windows pode mostrar um aviso de editor desconhecido: clique em "Mais informações" e depois em "Executar assim mesmo".
 
-**Android:** baixe `BRANIAC-0.7.4.apk`, abra o arquivo e permita a instalação de fontes desconhecidas quando o aparelho pedir.
+**Android:** baixe `BRANIAC-0.7.5.apk`, abra o arquivo e permita a instalação de fontes desconhecidas quando o aparelho pedir.
 
 **macOS e Linux:** sem instalador publicado. Gere a partir do código (veja abaixo).
 
